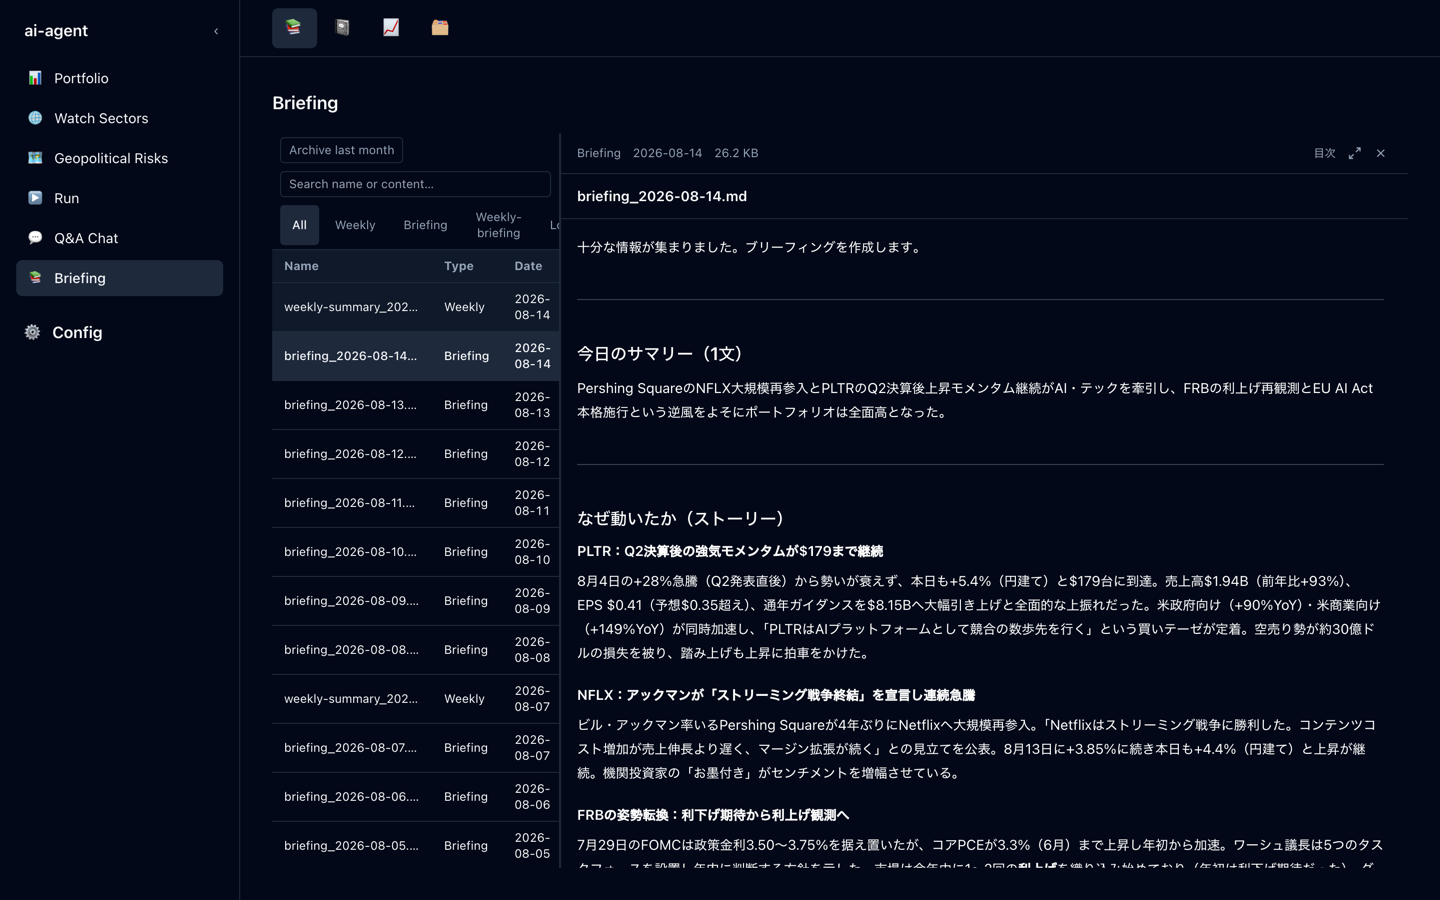
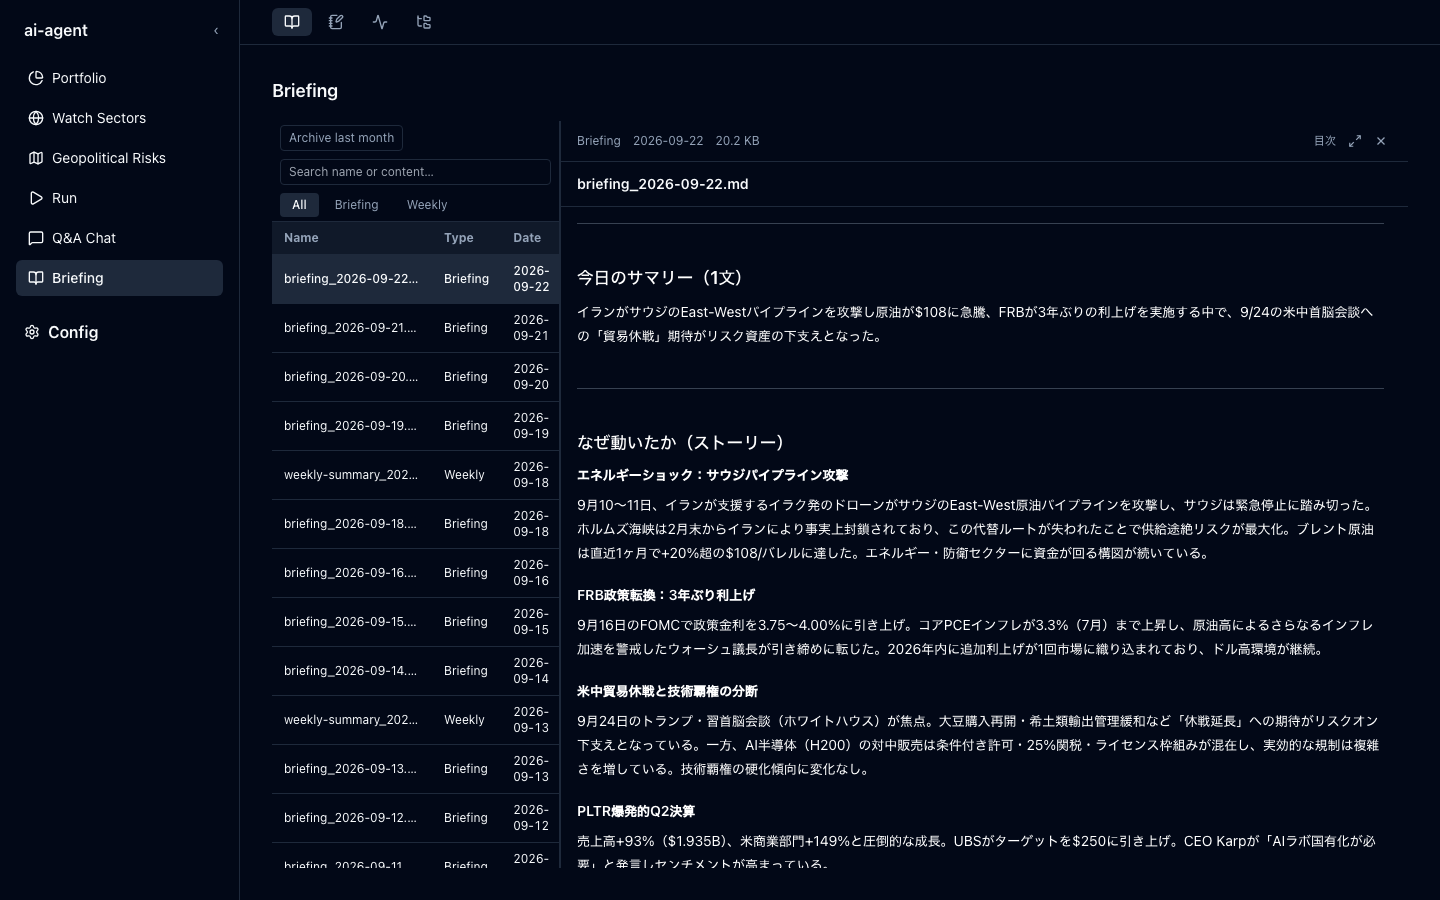
docs: refresh README screenshots and fix stale facts
- Re-capture briefing viewer and usage monitor on the current line-icon
  UI; the monitor shot uses synthetic transcripts, so no real project
  paths or username appear (the old one showed encoded full paths)
- Test counts (1,341 / 89), CI trigger (PRs to dev, plus launcher.yml),
  packages/brief-lens in the layout tree, launcher test command
- Caption no longer claims unattended 05:00 runs, which contradicted the
  manual-execution note in the same README

Claude-Session: https://claude.ai/code/session_01NtQNAFAmDkXNHwbdUTraT5

diff --git a/README.md b/README.md
@@ -24,7 +24,7 @@ The interesting problem here is not calling an LLM — it is making a non-determ
 
 ![Briefing viewer](docs/screenshots/briefing-viewer.png)
 
-<sub>The Web UI's briefing viewer — searchable archive on the left, rendered brief with a generated table of contents on the right. Every entry is one unattended 05:00 run.</sub>
+<sub>The Web UI's briefing viewer — searchable archive on the left, rendered brief with a generated table of contents on the right. Every entry is one daily briefing run (see the precondition below for why they are currently started by hand).</sub>
 
 ---
 
@@ -52,6 +52,7 @@ apps/python/
   config/briefing.json            # Portfolio, watch sectors, geopolitical risks
 
 apps/web/                         # Next.js UI — briefing viewer, chat, journal, usage monitor
+packages/brief-lens/              # `npx brief-lens` launcher — bootstraps ~/.brief-lens, runs API + Web UI
 ```
 
 **Key design decisions**
@@ -184,12 +185,13 @@ Thin wrappers that `exec` into `apps/python/bin/`. Each targets a specific task:
 ## Tests
 
 ```bash
-cd apps/python && .venv/bin/pytest -v   # 1,308 cases / 87 files
+cd apps/python && .venv/bin/pytest -v   # 1,341 cases / 89 files
 cd apps/web && npm test                 # vitest (unit + component)
 cd apps/web && npm run test:e2e         # Playwright
+cd packages/brief-lens && npm test      # npx launcher (node:test)
 ```
 
-Both suites run on push via GitHub Actions ([`pytest.yml`](.github/workflows/pytest.yml), [`web.yml`](.github/workflows/web.yml)). Tests load `apps/python/tests/config/briefing.json` — `conftest.py` pins `BRIEFING_CONFIG_PATH` before any `src.config` import, so no personal config is ever needed to run them.
+GitHub Actions runs them on every pull request to `dev` ([`pytest.yml`](.github/workflows/pytest.yml), [`web.yml`](.github/workflows/web.yml), [`launcher.yml`](.github/workflows/launcher.yml) — the last also packs the npm tarball, installs it and boots it). Tests load `apps/python/tests/config/briefing.json` — `conftest.py` pins `BRIEFING_CONFIG_PATH` before any `src.config` import, so no personal config is ever needed to run them.
 
 ---
 
